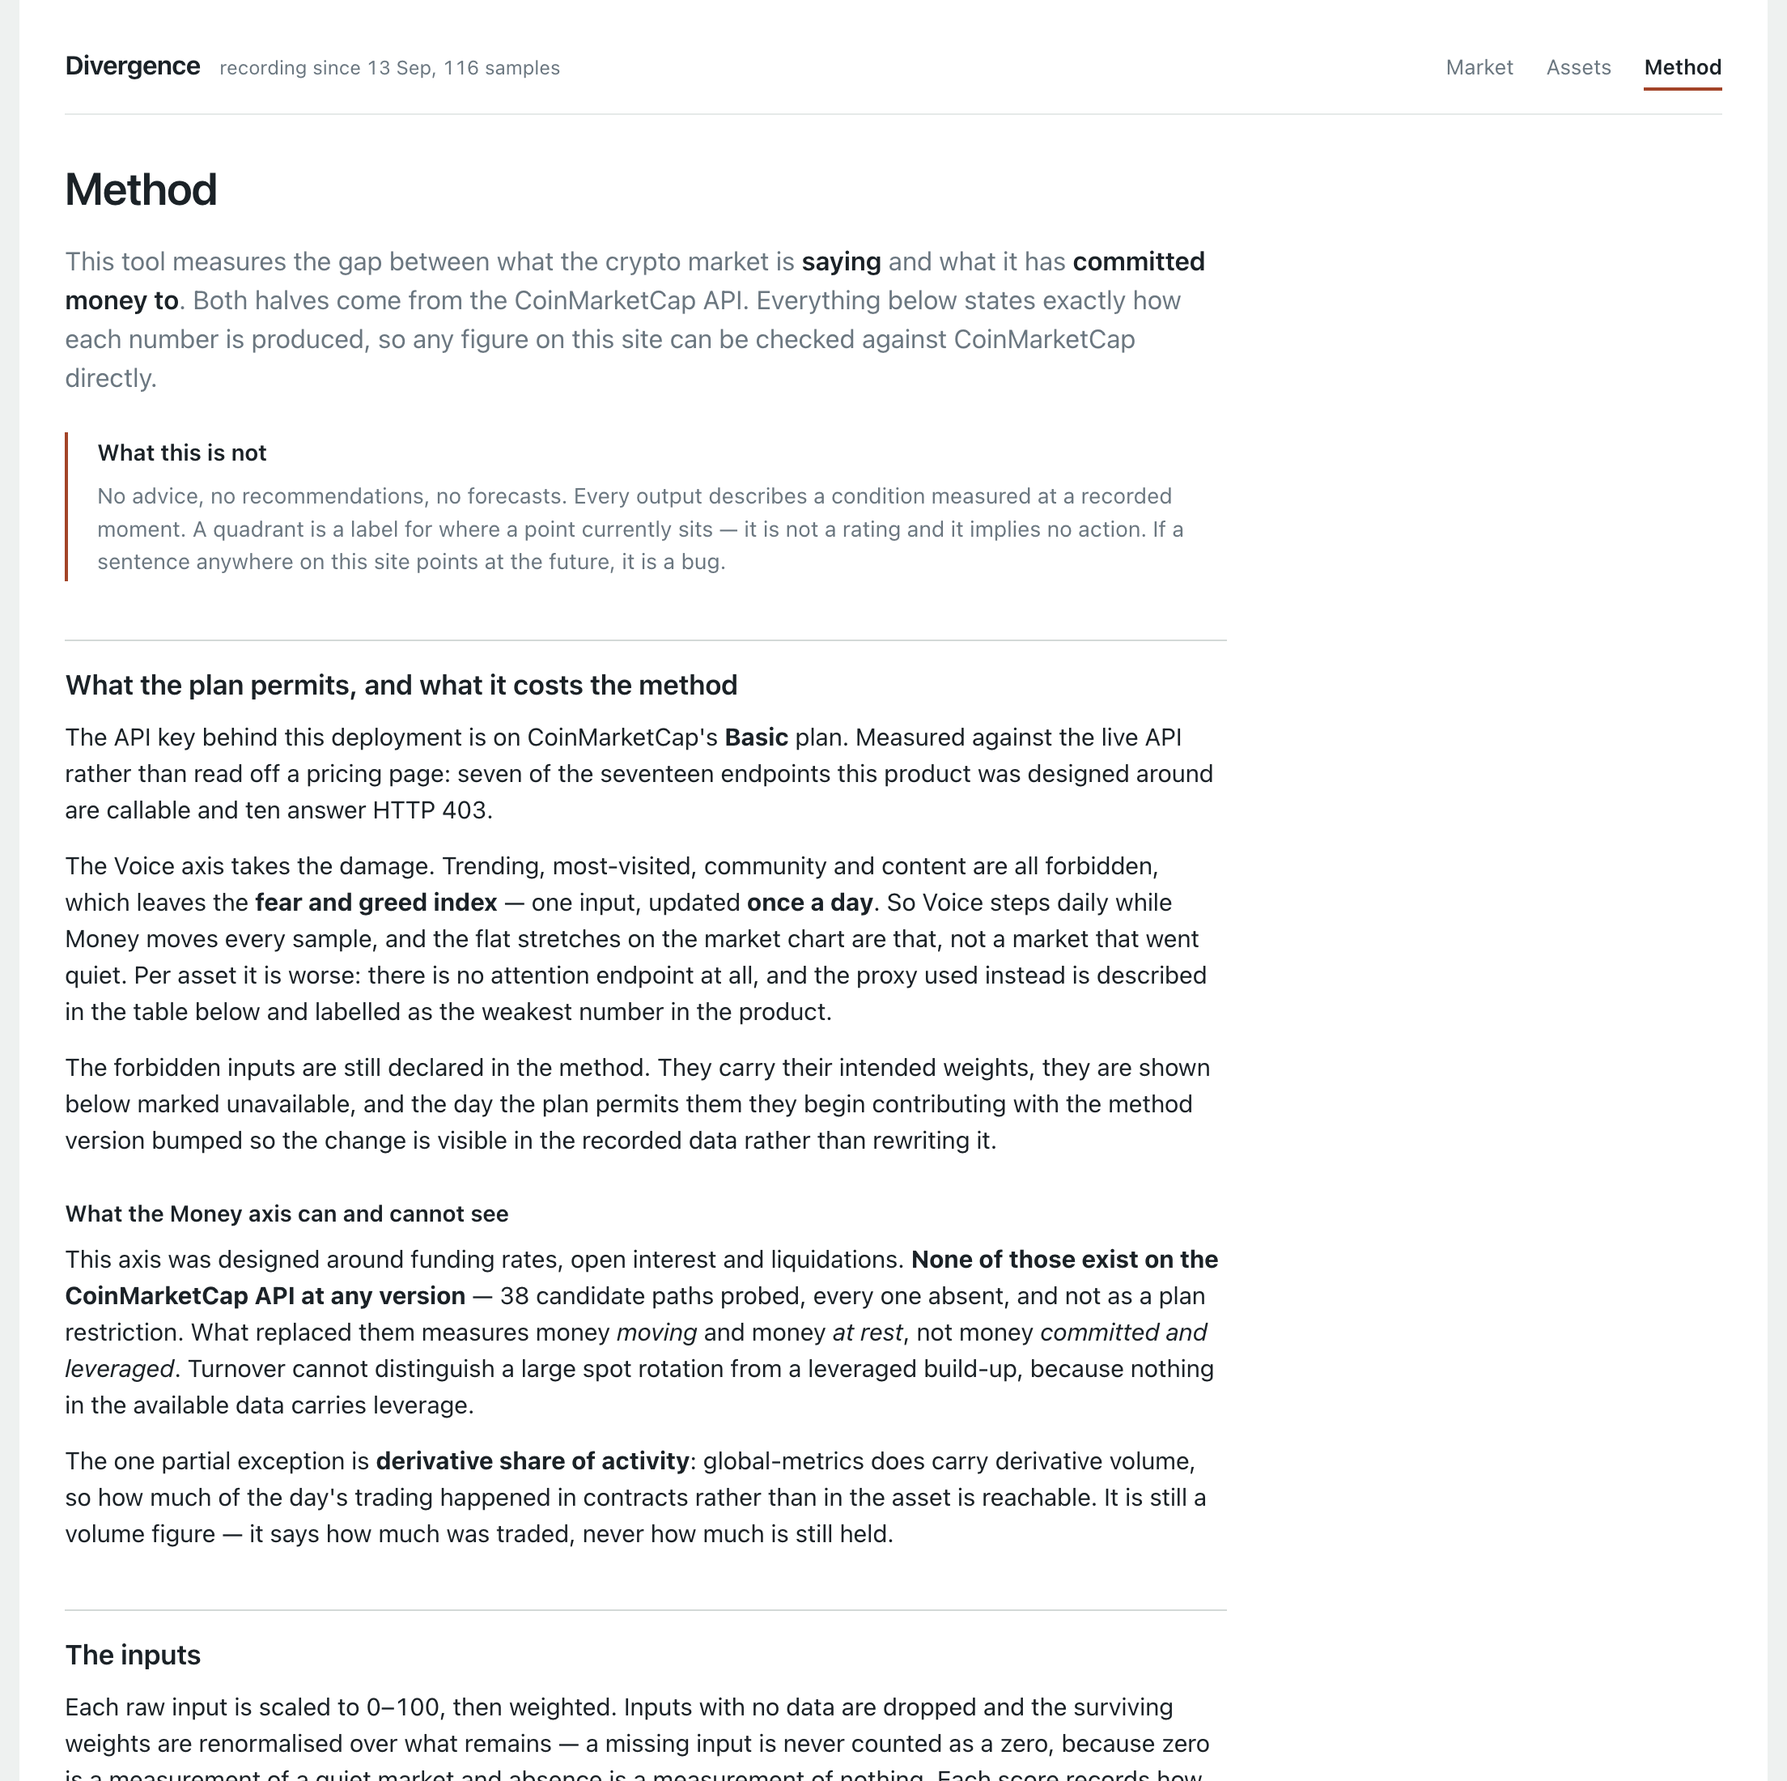
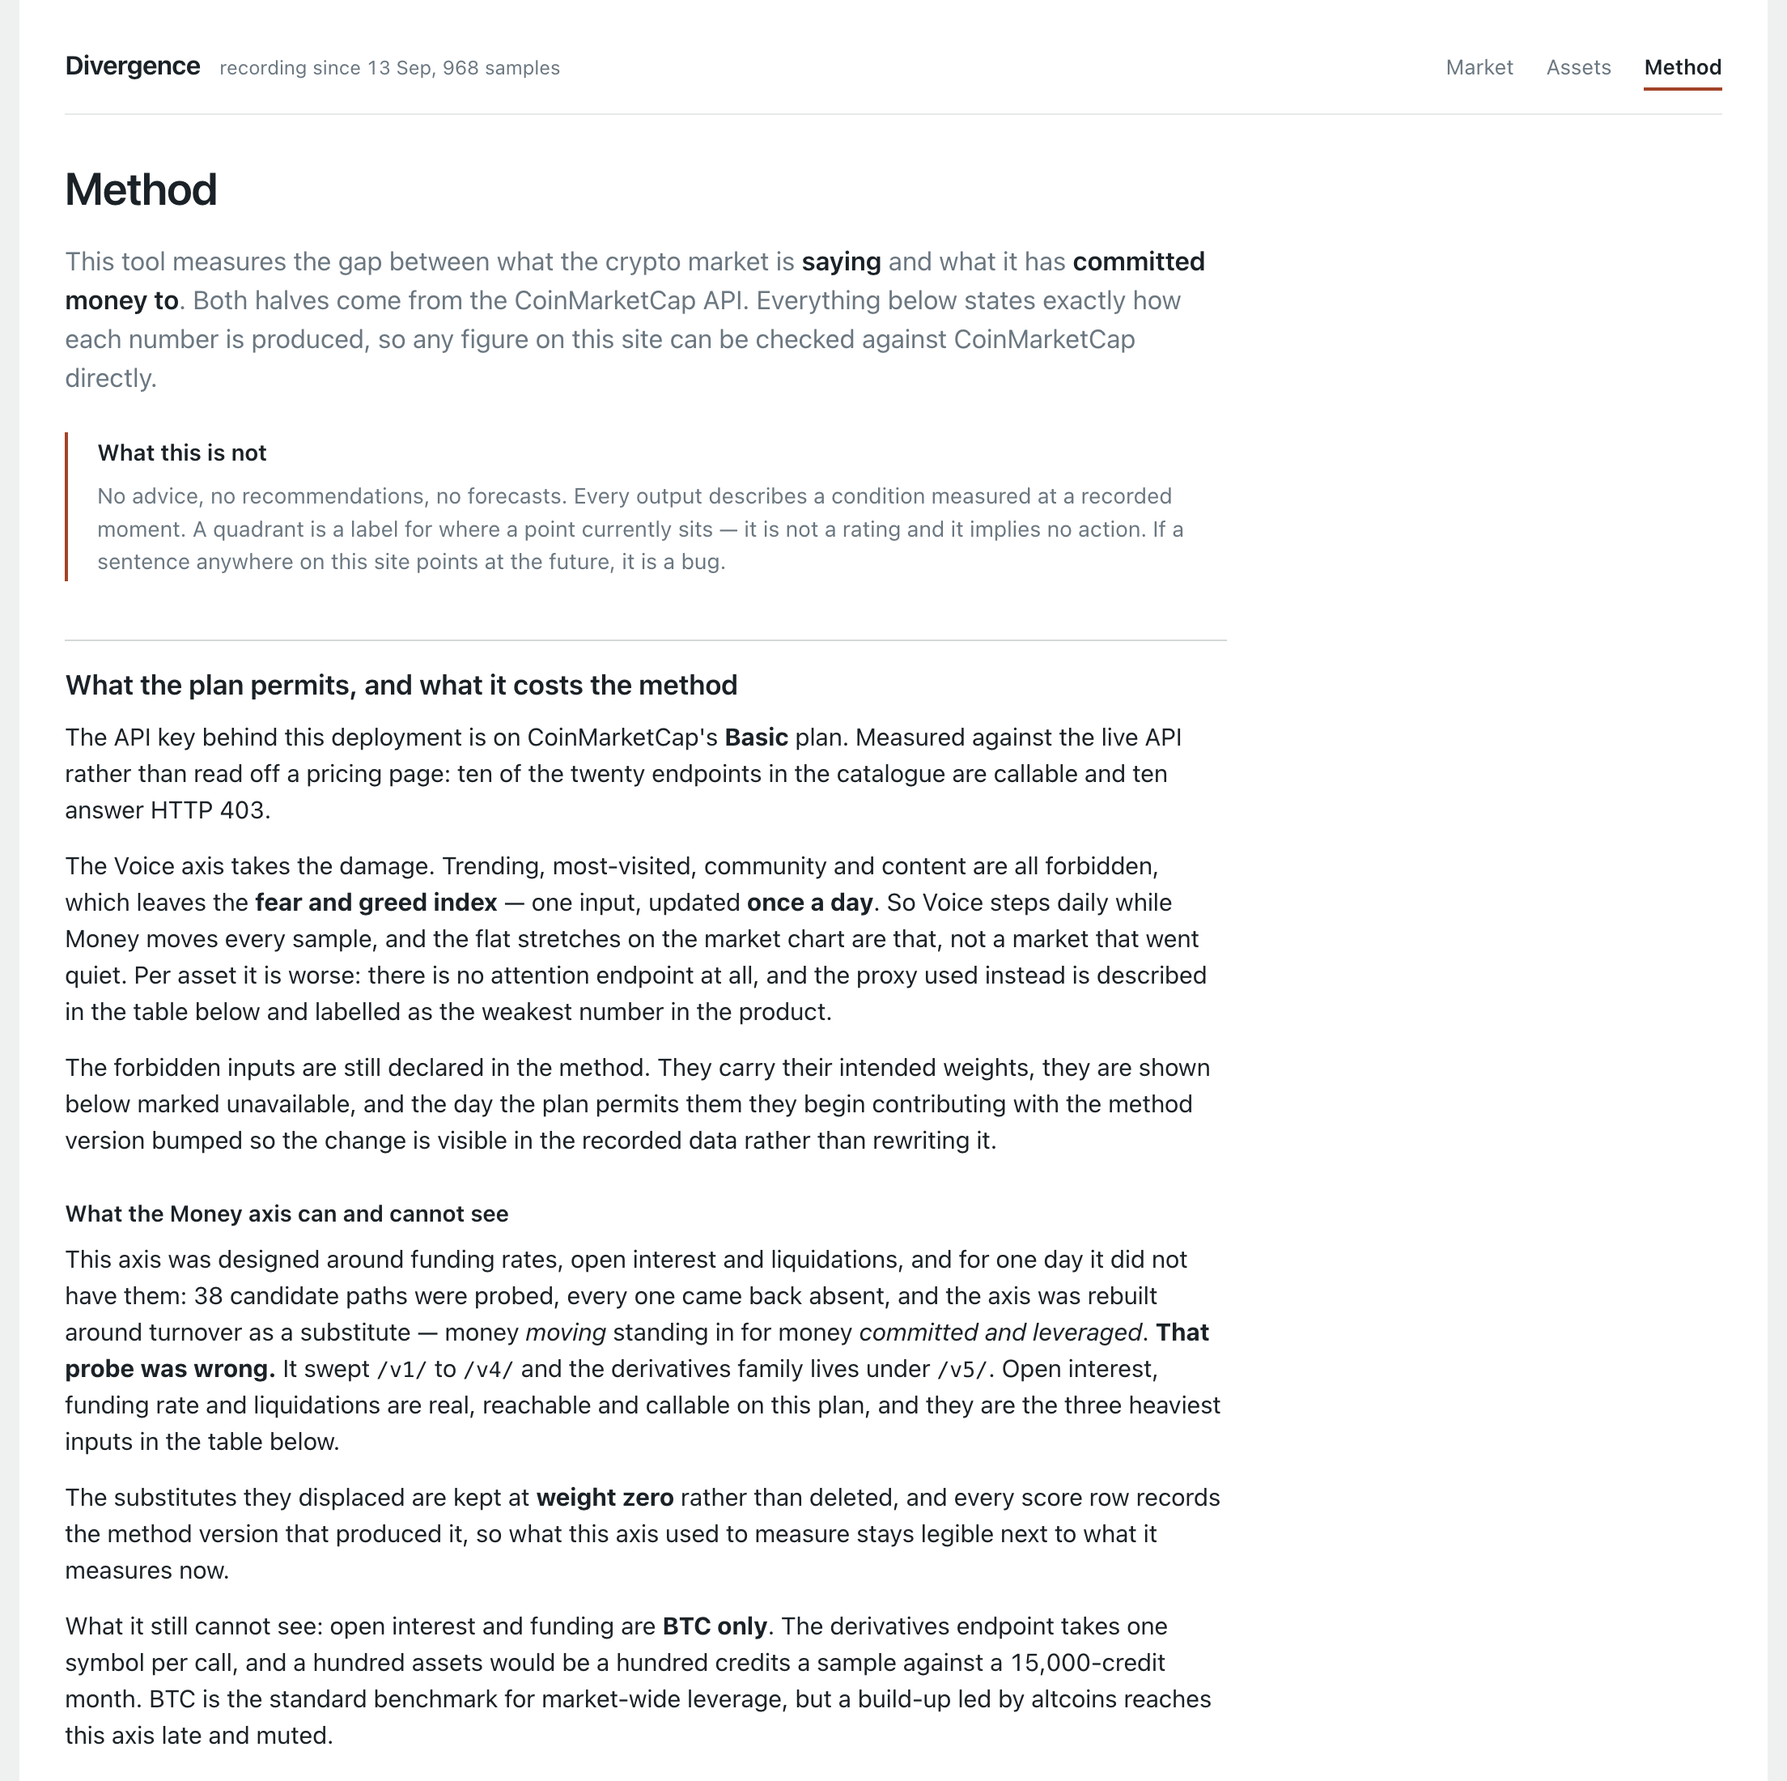
Give the site a route to its own source, and correct the numbers that had gone stale
A judge who arrives at the URL — which is how most of them will — had no way to
reach the repository. The nav was Market, Assets, Method, and the footer named
the method page and nothing else. The whole "the method is declared in code" and
"the mistakes are in the repo" argument was unreachable from the product it is
an argument about. The nav now carries a Source link and the footer names both
the repository and JUDGE.md.

Then the claims a judge can check in under a minute, all of which had drifted:

- 84 tests, in README and in JUDGE.md. The suite reports 90. JUDGE.md step 4
  hands the judge the exact command that disproves the sentence above it.
- 404 credits a day, 19% under budget, in the README only. That is the pre-D23
  figure; CLAUDE.md, DEPLOY.md, architecture.md, limits.md and D23's own table
  all say 356 and 29%. The README now says where 404 went.
- "Ten endpoints, every one of them polled and feeding a score" over a table of
  nine rows, of which key_info feeds no score and derivatives_exchanges is not
  polled at all. Corrected to nine with what each one actually does, and the
  distinction moved into the table so the prose cannot drift from it again.
- The example reading, and the open interest figure quoted without a date.

Three comments in lib/endpoints.php that D20 disproved and did not delete: the
file header still recorded the derivatives block as absent, and a whole "Money —
[…]

diff --git a/public/assets/app.css b/public/assets/app.css
@@ -69,6 +69,10 @@ code, .mono {
 .nav a { border-bottom: none; }
 .nav a:hover { color: var(--ink); }
 .nav b { font-weight: 600; color: var(--ink); border-bottom: 2px solid var(--money); padding-bottom: 3px; }
+/* The one nav item that leaves the site. Set apart so it reads as a destination
+   rather than a fourth page of the app. */
+.navout { padding-left: 20px; border-left: 1px solid var(--hairline); }
+.navout::after { content: " \2197"; font-size: 10px; }
 
 /* ---------- market stage ---------- */
 
@@ -234,6 +238,7 @@ td.muted { color: var(--graphite); }
 
 .pagefoot { margin-top: 48px; padding-top: 14px; border-top: 1px solid var(--hairline); }
 .pagefoot p { font-size: 11.5px; color: var(--graphite); max-width: 78ch; margin: 0; }
+.pagefoot p + p { margin-top: 7px; }
 
 /* ---------- responsive ---------- */
 

diff --git a/app/lib/endpoints.php b/app/lib/endpoints.php
@@ -8,8 +8,9 @@
  * recorder writes every run. Plan access is a separate question, answered by
  * bin/verify-endpoints.php with a real key, and recorded in docs/endpoint-access.md.
  *
- * The derivatives block that this design originally assumed is gone: 38 candidate
- * paths, every one absent. See docs/decisions.md D10.
+ * D10 recorded the derivatives block as gone — 38 candidate paths, every one absent.
+ * That was wrong: the probe swept /v1/ to /v4/ and the family lives under /v5/. The
+ * corrected result is below and in docs/decisions.md D20, which is the entry to read.
  *
  * 'access' records what bin/verify-endpoints.php measured with a real key, re-verified in
  * full on 13 Sep 2026.
@@ -162,14 +163,6 @@ function endpoint_catalogue(): array
             'Per-asset and needs an id, so one call per asset. Only affordable for a short list.'),
 
         // -------------------------------------------------------------------
-        // Money — what the market has committed.
-        //
-        // Not what this design assumed. Funding rate, open interest and liquidations
-        // have no endpoint on the CMC API at any version — probed and recorded in
-        // docs/endpoint-access.md. What is left measures committed money indirectly:
-        // turnover, where that turnover happens, and what sits on exchanges.
-        // -------------------------------------------------------------------
-        // -------------------------------------------------------------------
         // Money — the leverage inputs. D10 said these did not exist; D20 records
         // why that was wrong. They live under /v5/, which the original probe never
         // reached, and they are callable on this plan.
@@ -192,9 +185,11 @@ function endpoint_catalogue(): array
         $e('derivatives_exchanges', '/v5/exchange/derivatives/list', 'money',
             'per-venue derivative volume and open interest, for concentration',
             ['limit' => 100], false, 'market', 'yes',
-            'Replaces the forbidden exchange_listings for the concentration input. Recorded '
-            . 'but not yet scored — the HHI input is declared at weight zero until there is '
-            . 'enough history to set a reference range from measurement rather than instinct.', 60),
+            'Replaces the forbidden exchange_listings for the concentration input. Verified '
+            . 'callable and reserved, but poll is false, so nothing is recorded from it yet: the '
+            . 'HHI input it would feed is declared at weight zero until there is enough history '
+            . 'to set a reference range from measurement rather than instinct. Turning this on '
+            . 'is one flag and 24 credits a day.', 60),
 
         // Callable, verified, and no longer polled. It returns exactly the metrics
         // listings_latest already returns — both extractors call asset_money_metrics()

diff --git a/public/bootstrap.php b/public/bootstrap.php
@@ -268,6 +268,12 @@ function render_head(string $title, string $active, array $health): void
         'assets' => ['assets.php', 'Assets'],
         'method' => ['method.php', 'Method'],
     ];
+
+    // The repository is part of the product, not a footnote to it: the method is
+    // declared in source, every number here is reproducible from it, and the decision
+    // log records where this was wrong. A visitor who arrives at the URL and cannot
+    // reach any of that is seeing half the thing.
+    $source = 'https://github.com/geralexgr/coinmarketcap-divergence';
     ?>
 <!DOCTYPE html>
 <html lang="en">
@@ -294,6 +300,7 @@ function render_head(string $title, string $active, array $health): void
       <?php foreach ($nav as $key => [$href, $label]): ?>
         <?php if ($key === $active): ?><b><?= h($label) ?></b><?php else: ?><a href="<?= h($href) ?>"><?= h($label) ?></a><?php endif; ?>
       <?php endforeach; ?>
+      <a class="navout" href="<?= h($source) ?>" rel="noopener">Source</a>
     </nav>
   </header>
 <?php
@@ -307,6 +314,10 @@ function render_foot(): void
        recorded past moment. Nothing here is advice, a recommendation, or a prediction. Source data
        from the CoinMarketCap API; the <a href="method.php">method page</a> states exactly how each
        figure is derived.</p>
+    <p>Source, the method as declared in code, and the log of what this project got wrong:
+       <a href="https://github.com/geralexgr/coinmarketcap-divergence" rel="noopener">github.com/geralexgr/coinmarketcap-divergence</a>.
+       <a href="https://github.com/geralexgr/coinmarketcap-divergence/blob/main/JUDGE.md" rel="noopener">JUDGE.md</a>
+       is how to check any number on this page against CoinMarketCap yourself.</p>
   </footer>
 </div>
 <script src="assets/app.js"></script>

diff --git a/README.md b/README.md
@@ -79,13 +79,15 @@ reconstruct.
 
 ### What a reading actually tells you
 
-The live site at the time of writing:
+The live site at the time of writing — check it against
+[`/api/market.php`](https://coinmarketcap.geralexgr.com/api/market.php), which returns the same
+numbers with the endpoint and sample minute behind each one:
 
-> **Voice 66 · Money 39 · Divergence −27 — "Chatter without conviction"**
+> **Voice 83 · Money 49 · Divergence −34 — "Chatter without conviction"**
 
-Read that as: the fear and greed index is well into greed, but open interest, funding and
-liquidations are all subdued. People are *talking* like it is a bull market and *positioning* like
-it is not. That is a fact about right now, checkable against CoinMarketCap in about a minute — and
+Read that as: the fear and greed index sits at 65, which is the 83rd percentile of its own last 500
+days, while open interest, funding and liquidations are middling. People are *talking* like it is a
+bull market and *positioning* like it is not. That is a fact about right now, checkable against CoinMarketCap in about a minute — and
 it is not a number you can read off any single page there.
 
 Flip it and you get the reading the tool was built to find: **low Voice, high Money** — nobody is
@@ -125,11 +127,15 @@ anyone, at any later date.
 Every input in the right-hand column carries the endpoint it came from and the minute it was
 sampled, so any number here can be checked against CoinMarketCap directly.
 
-*This one is from a local run against seeded history, because the live deployment started recording
-on 13 September and its Voice axis has not stepped yet — the fear and greed index updates once a
-day, so the live trail is currently a straight horizontal line. A picture of a straight line would
-say less about the product than this does. The two shots below are live, and this one gets replaced
-the moment the real trail has shape.*
+*Live, from the deployment.* This shot replaces an earlier one taken against seeded history: on 13
+September the live Voice axis had not stepped yet, so the real trail was a single horizontal line
+and a picture of it would have said less about the product than a seeded run did. It has since
+stepped nine times. Everything above is now recorded, and every screenshot in this README is
+reproducible with `./docs/screenshots/capture.sh`.
+
+The Voice axis still steps once a day, which is what the horizontal runs in the trail are. That is
+the plan's limit, not the market's, and it is stated [below](#read-this-second-what-the-api-plan-costs-the-method)
+and on the screen itself.
 
 ### The screener
 
@@ -227,8 +233,9 @@ forbidden inputs stay declared in the method at their intended weights and light
 the plan changes — see [D16](docs/decisions.md).
 
 **The Money axis measures real leverage.** Open interest, funding rate and liquidations, from the
-`/v5/` derivatives family — $76.6bn of BTC open interest, funding weighted by open interest across
-every venue, and 24h liquidations split long from short.
+`/v5/` derivatives family — $104.9bn of BTC open interest as at 15 Sep 2026, funding weighted by
+open interest across every venue, and 24h liquidations split long from short. Those are readings,
+not constants; the live ones are on the [market page](https://coinmarketcap.geralexgr.com).
 
 Getting there involved being wrong in public first. This repo spent two days documenting, after
 probing 38 paths, that the CoinMarketCap API has **no** derivatives endpoints — because the probe
@@ -374,7 +381,11 @@ Seven tools, none of which takes a write action. Surface: [`docs/mcp-tools.md`](
 
 ## CoinMarketCap endpoints used
 
-Ten endpoints, every one of them polled and feeding a score. Verified against the live API rather
+Nine endpoints. Six are polled and feed a score; `key_info` is polled for the credit budget and
+costs nothing; `fear_and_greed_historical` was fetched once, not on a cron; and
+`derivatives_exchanges` is verified and reserved, not yet polled, because the concentration input
+it would feed is declared at weight zero until there is enough history to set its range by
+measurement. Each row below says which. Verified against the live API rather
 than read off the documentation — `app/bin/verify-endpoints.php` measures what the key may actually
 call, and `endpoint_access_results()` encodes the result so the poller cannot schedule something it
 cannot reach.
@@ -385,7 +396,7 @@ cannot reach.
 | Voice | `/v3/fear-and-greed/historical` | **500 days of index history** — fetched once, not on a cron ([D22](docs/decisions.md)) | 1, once |
 | **Money** | `/v5/cryptocurrency/derivatives/market-pairs/list/latest` | **open interest, funding rate, basis** | 1 |
 | **Money** | `/v5/derivatives/liquidations/cryptocurrency/list/latest` | **long and short liquidations** — 200 assets per credit | 1 |
-| **Money** | `/v5/exchange/derivatives/list` | per-venue derivative volume and open interest | 1 |
+| **Money** | `/v5/exchange/derivatives/list` | per-venue derivative volume and open interest — **verified, not yet polled**, weight zero | 1 |
 | Money | `/v1/global-metrics/quotes/latest` | turnover, derivative share of activity | 1 |
 | Money | `/v1/exchange/assets` | exchange reserve level, and its movement | 1 |
 | Both | `/v1/cryptocurrency/listings/latest` | the asset universe **and every callable per-asset input**, `limit=200` | 1 |
@@ -501,7 +512,7 @@ divergence/
 │
 ├── public/                ← the document root, and the ONLY web-served directory
 │
-├── tests/                 84 tests, no framework, no network, no database
+├── tests/                 90 tests, no framework, no network, no database
 └── docs/                  schema.sql · method · data model · decisions · limits · API friction
 ```
 
@@ -520,8 +531,9 @@ root.
 - **Per-endpoint cadence**, because one interval for everything wasted most of the budget: the
   once-a-day fear and greed index was being fetched every tick for an identical value while the
   leverage inputs genuinely move. Open interest, funding and liquidations every 15 minutes; the
-  universe every 30; reserves every 2 hours; sentiment every 3. **404 credits a day**, 19% under
-  budget — cheaper than the old schedule *and* carrying three more inputs.
+  universe every 30; reserves every 2 hours; sentiment every 3. **356 credits a day**, 29% under
+  budget — cheaper than the old schedule *and* carrying three more inputs. It was 404 until
+  `quotes_latest` was retired for duplicating data already on disk ([D23](docs/decisions.md)).
 - **The host enforces a 15-minute cron floor** and silently rewrites anything faster. Per-endpoint
   cadence absorbs it completely: the poller is a cheap tick that decides what is due, so every
   endpoint still gets the interval it declares. Under the previous design the same rewrite would

diff --git a/CLAUDE.md b/CLAUDE.md
@@ -61,7 +61,8 @@ liquidations, open interest against volume, and turnover.
 
 D10 recorded that the derivatives endpoints did not exist, after probing 38 paths. **That was
 wrong** — they live under `/v5/`, and the original sweep covered `/v1/`–`/v4/` only. D20 is the
-correction and `METHOD_VERSION` 2 is the axis rebuilt on them. The turnover-and-substitutes version
+correction and `METHOD_VERSION` 2 was the axis rebuilt on them; the current version is 3, set in
+`app/scoring/inputs.php`, which is the only place it is declared. The turnover-and-substitutes version
 of the axis is kept at weight zero rather than deleted, so what the axis used to be stays legible.
 If you read a claim in this repo that something is absent from the API, check which versions were
 swept before repeating it.

diff --git a/JUDGE.md b/JUDGE.md
@@ -76,7 +76,7 @@ cd coinmarketcap-divergence
 php tests/run.php
 ```
 
-84 tests, no framework, no network, no database, no composer. They cover the parts that fail
+90 tests, no framework, no network, no database, no composer. They cover the parts that fail
 *silently*: normalisation boundaries, a missing input being scored as zero, a percentile that peeks
 at the future, and the readout copy being grepped for future-tense words.
 
